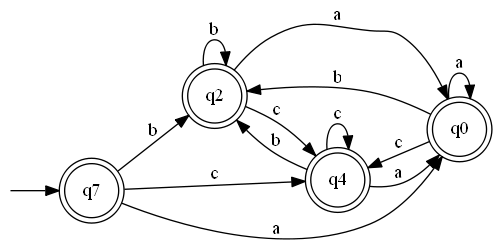
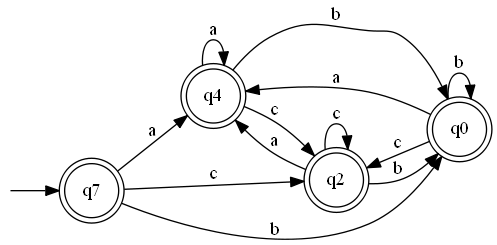
Modify README

diff --git a/package/fileManagement.py b/package/fileManagement.py
@@ -14,7 +14,7 @@ def close_file(file):
 
 
 def create_file():
-    file = open("../Analizer.py", "w")
+    file = open("../Analyzer.py", "w")
     return file
 
 
@@ -44,10 +44,10 @@ def automata_Search(AFD, startState, nodesAutomata, word):
 def main():
           
 """
-    )
+               )
     file.write("    AFD = " + str(AFD) + "\n")
-    file.write("    startState = 'q" + str(startState) + "'\n") 
-    
+    file.write("    startState = 'q" + str(startState) + "'\n")
+
     file.write("    nodesAutomata = " + str(nodesAutomata) + "\n")
     file.write("""
     word = sys.stdin.readline().strip('\\n')
@@ -58,14 +58,15 @@ def main():
 
 main()
 """
-    )
+               )
+
 
 def generate_Code():
     file_input = open_File()
     file_output = create_file()
     file_output.write("import sys \n")
     ERs = []
-    
+
     counter = 0
     for line in file_input:
         if line != "(O_O¬)\n" and counter == 1:
@@ -78,7 +79,7 @@ def generate_Code():
             file_output.write(line)
         else:
             counter += 1
-    
+
     AFD, startState, nodesAutomata = Automata.makeAutomata(ERs)
     print(AFD.keys())
     print(nodesAutomata)
@@ -86,5 +87,6 @@ def generate_Code():
 
     file_input.close()
     file_output.close()
+
 
 generate_Code()

diff --git a/Analyzer.py b/Analyzer.py
@@ -1,12 +1,7 @@
 import sys 
 import sys
 import math
-def test():
-    print("test is ok")
-    pass
-
-def secondTest():
-    print("Its alrigth dude") 
+ 
 
 def automata_Search(AFD, startState, nodesAutomata, word):
     isAcepted = False
@@ -30,9 +25,9 @@ def automata_Search(AFD, startState, nodesAutomata, word):
 
 def main():
           
-    AFD = {'q2': {'q2': ['b'], 'q4': ['c'], 'q0': ['a']}, 'q7': {'q2': ['b'], 'q4': ['c'], 'q0': ['a']}, 'q0': {'q2': ['b'], 'q4': ['c'], 'q0': ['a']}, 'q4': {'q2': ['b'], 'q4': ['c'], 'q0': ['a']}}
+    AFD = {'q4': {'q4': ['a'], 'q2': ['c'], 'q0': ['b']}, 'q7': {'q4': ['a'], 'q2': ['c'], 'q0': ['b']}, 'q2': {'q4': ['a'], 'q2': ['c'], 'q0': ['b']}, 'q0': {'q4': ['a'], 'q2': ['c'], 'q0': ['b']}}
     startState = 'q7'
-    nodesAutomata = {'q2': True, 'q0': True, 'q4': True, 'q7': True}
+    nodesAutomata = {'q4': True, 'q2': True, 'q0': True, 'q7': True}
 
     word = sys.stdin.readline().strip('\n')
     word = list(map(str, word))
